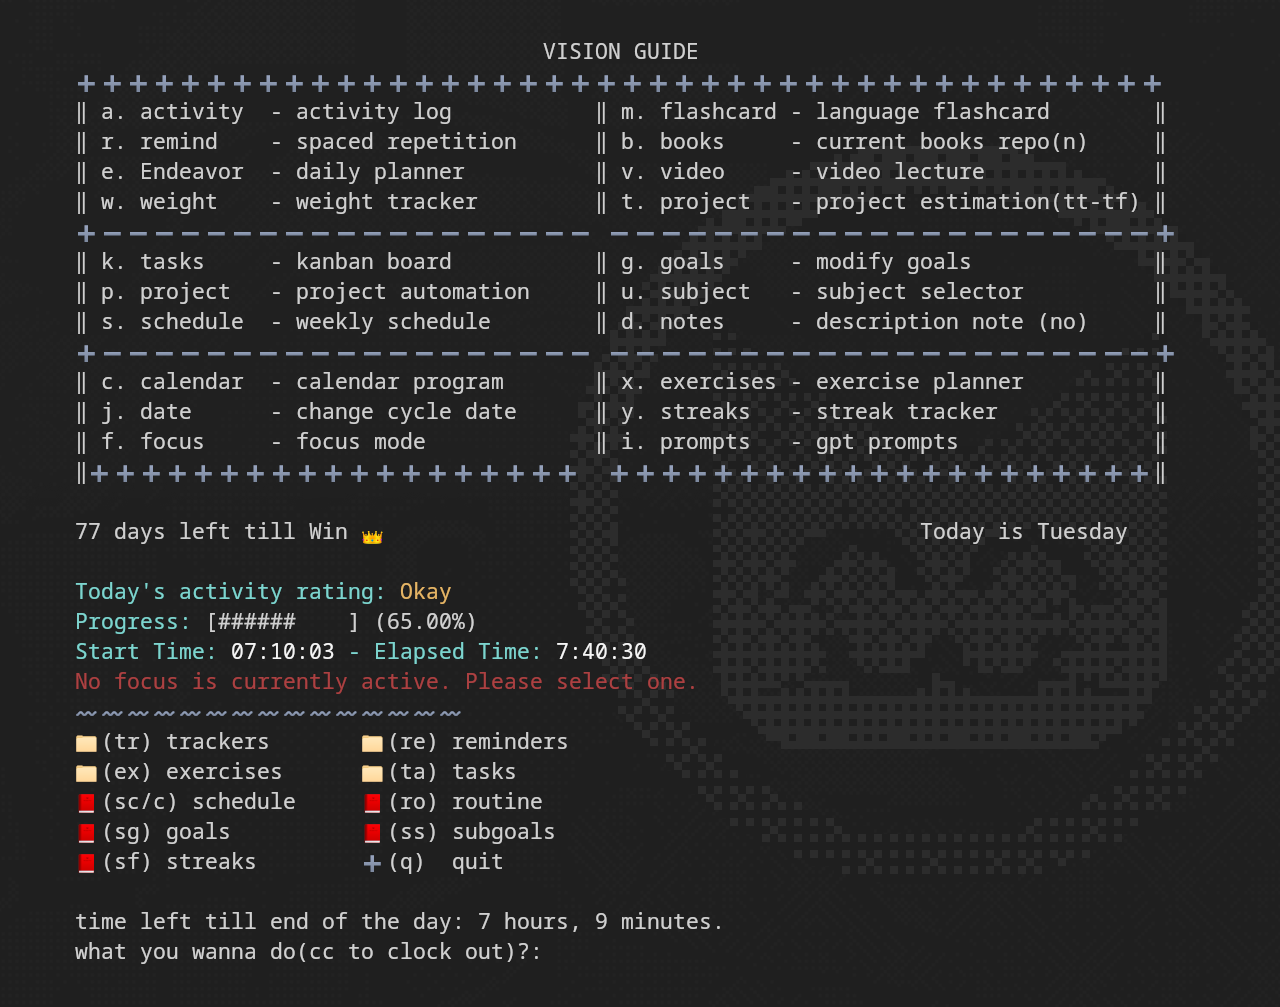
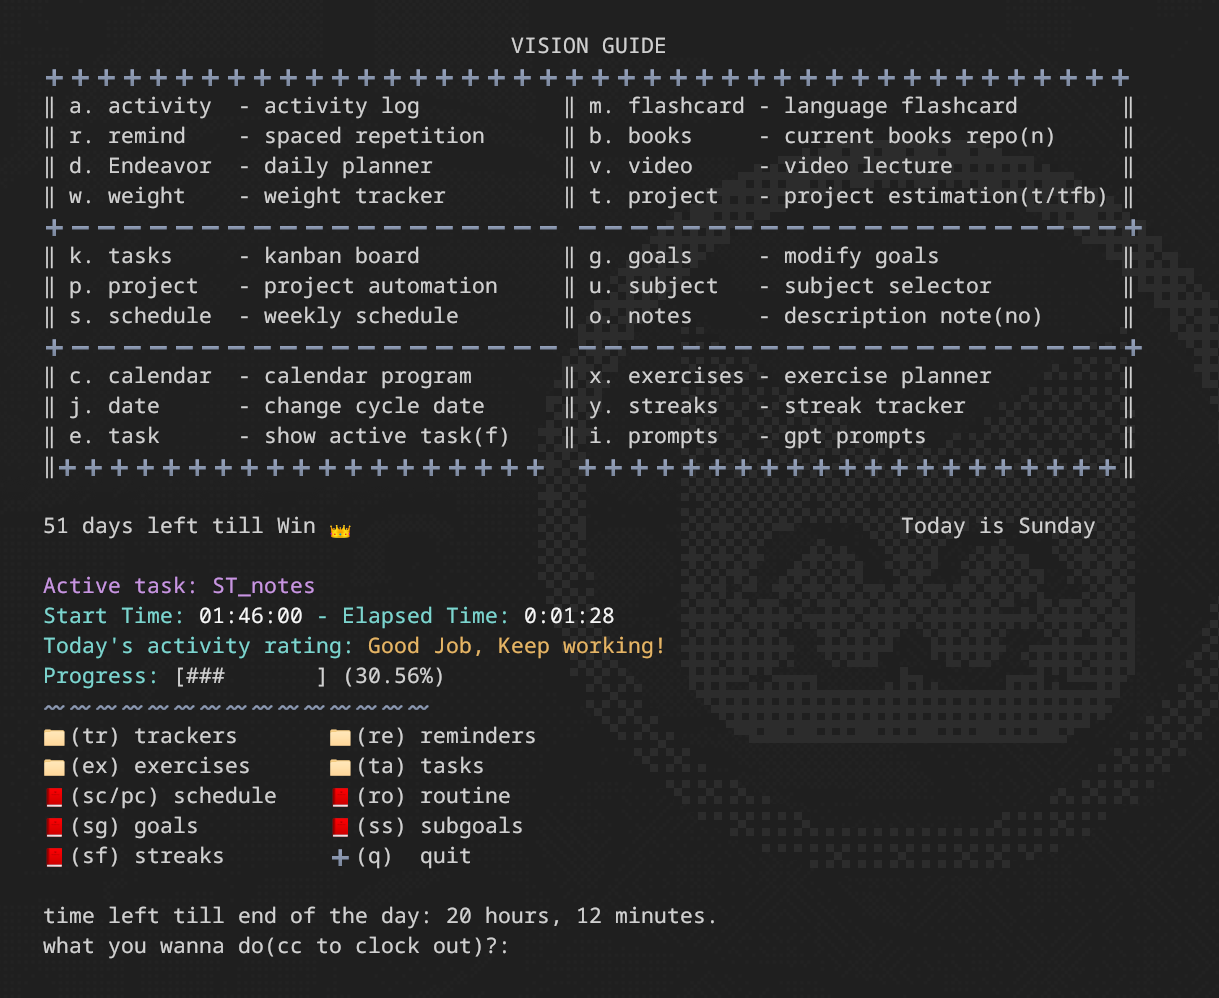
fixed activity labels, added schedule week calculator

Changed region(s): [[0.0312, 0.0311, 0.9352, 0.8697], [0.0312, 0.9008, 0.5923, 0.9629]]

diff --git a/modules/tasks.py b/modules/tasks.py
@@ -121,25 +121,49 @@ def remove_task():
 
 def move_task():
     clear_terminal()
+    update_task_indexes()
     show_tasks_Pindexes()
     task_index = int(input("\nEnter task index to move: "))
+
+    found_task = None
     for task in tasks:
         if task["index"] == task_index:
-            current_status = task['status']
-            if current_status == "Haven't studied":
-                task['status'] = "Studying right now"
-            elif current_status == "Studying right now":
-                task['status'] = "Study accomplished"
-            else:
-                print(f"{task['name']} already accomplished.")
-            save_data()
-            clear_terminal()
-            return
+            found_task = task
+            break
 
-    print(f"Subject with index {task_index} not found.")
-    input("Press any key to continue...")
+    if found_task:
+        print(f"Selected task: {found_task['name']} - Status: {found_task['status']}")
+        move_direction = input("Move it forward or back? (forward/back): ").lower()
+
+        if move_direction == "forward":
+            if found_task['status'] == "Haven't studied":
+                found_task['status'] = "Studying right now"
+                print(f"{found_task['name']} moved forward to 'Studying right now'.")
+            elif found_task['status'] == "Studying right now":
+                found_task['status'] = "Study accomplished"
+                print(f"{found_task['name']} moved forward to 'Study accomplished'.")
+            else:
+                print(f"{found_task['name']} already accomplished.")
+        elif move_direction == "back":
+            if found_task['status'] == "Studying right now":
+                found_task['status'] = "Haven't studied"
+                print(f"{found_task['name']} moved back to 'Haven't studied'.")
+            elif found_task['status'] == "Study accomplished":
+                found_task['status'] = "Studying right now"
+                print(f"{found_task['name']} moved back to 'Studying right now'.")
+            else:
+                print(f"{found_task['name']} hasn't been started yet.")
+        else:
+            print("Invalid choice. Please enter 'forward' or 'back'.")
+
+        save_data()
+    else:
+        print(f"task with index {task_index} not found.")
     clear_terminal()
     show_tasks()
+    input("\n\nPress any key to continue...")
+    clear_terminal()
+
 
 def show_tasks_Pindexes():
     update_task_indexes()

diff --git a/modules/subjects.py b/modules/subjects.py
@@ -123,23 +123,46 @@ def move_subject():
     update_subject_indexes()
     show_subjects_Pindexes()
     subject_index = int(input("\nEnter subject index to move: "))
+
+    found_subject = None
     for subject in subjects:
         if subject["index"] == subject_index:
-            current_status = subject['status']
-            if current_status == "Haven't studied":
-                subject['status'] = "Studying right now"
-            elif current_status == "Studying right now":
-                subject['status'] = "Study accomplished"
-            else:
-                print(f"{subject['name']} already accomplished.")
-            save_data()
-            clear_terminal()
-            return
+            found_subject = subject
+            break
 
-    print(f"Subject with index {subject_index} not found.")
+    if found_subject:
+        print(f"Selected subject: {found_subject['name']} - Status: {found_subject['status']}")
+        move_direction = input("Move it forward or back? (forward/back): ").lower()
+
+        if move_direction == "forward":
+            if found_subject['status'] == "Haven't studied":
+                found_subject['status'] = "Studying right now"
+                print(f"{found_subject['name']} moved forward to 'Studying right now'.")
+            elif found_subject['status'] == "Studying right now":
+                found_subject['status'] = "Study accomplished"
+                print(f"{found_subject['name']} moved forward to 'Study accomplished'.")
+            else:
+                print(f"{found_subject['name']} already accomplished.")
+        elif move_direction == "back":
+            if found_subject['status'] == "Studying right now":
+                found_subject['status'] = "Haven't studied"
+                print(f"{found_subject['name']} moved back to 'Haven't studied'.")
+            elif found_subject['status'] == "Study accomplished":
+                found_subject['status'] = "Studying right now"
+                print(f"{found_subject['name']} moved back to 'Studying right now'.")
+            else:
+                print(f"{found_subject['name']} hasn't been started yet.")
+        else:
+            print("Invalid choice. Please enter 'forward' or 'back'.")
+
+        save_data()
+    else:
+        print(f"Subject with index {subject_index} not found.")
+
     input("Press any key to continue...")
     clear_terminal()
     show_subjects()
+
 
 def update_subject():
     clear_terminal()

diff --git a/modules/activity.py b/modules/activity.py
@@ -12,9 +12,9 @@ init(autoreset=True)
 # Constants for rating colors
 COLORS = {
     'red: Terrible': Fore.RED,
-    'colors.YELLOW: Okay': Fore.YELLOW,
-    'colors.CYAN: Good': Fore.CYAN,
-    'pure colors.GREEN: perfect': Fore.GREEN,
+    'yellow: Okay': Fore.YELLOW,
+    'cyan: Good': Fore.CYAN,
+    'green: perfect': Fore.GREEN,
 }
 
 # Database file path
@@ -253,11 +253,11 @@ def calculate_and_save_activity_rating():
         elif completion_percentage <= 32:
             color_rating = 'red: Terrible'
         elif completion_percentage <= 65:
-            color_rating = 'colors.YELLOW: Okay'
+            color_rating = 'yellow: Okay'
         elif completion_percentage <= 99:
-            color_rating = 'colors.CYAN: Good'
+            color_rating = 'cyan: Good'
         else:
-            color_rating = 'pure colors.GREEN: perfect'
+            color_rating = 'green: perfect'
 
         # Load existing activity data or initialize an empty dictionary
         activity_data = {}
@@ -333,11 +333,11 @@ def check_and_update_yesterday_activity():
                 elif completion_percentage <= 32:
                     color_rating = 'red: Terrible'
                 elif completion_percentage <= 65:
-                    color_rating = 'colors.YELLOW: Okay'
+                    color_rating = 'yellow: Okay'
                 elif completion_percentage <= 99:
-                    color_rating = 'colors.CYAN: Good'
+                    color_rating = 'cyan: Good'
                 else:
-                    color_rating = 'pure colors.GREEN: perfect'
+                    color_rating = 'green: perfect'
             else:
                 color_rating = 'red: Terrible'
         except FileNotFoundError:
@@ -429,6 +429,7 @@ def main():
 
         if choice == 's':
             clear_terminal()
+            load_data()
             show_activity()
             input("\npress enter to continue...")
             clear_terminal()

diff --git a/modules/schedule.py b/modules/schedule.py
@@ -47,7 +47,7 @@ def edit_notes():
 
 
 def show_schedule_by_time(print_output):
-    schedule_lines = get_schedule_output().strip().split('\n')
+    schedule_lines = get_schedule_output(lastl=False).strip().split('\n')
     schedule_output = '\n'.join(schedule_lines[1:])
     current_time = datetime.now().strftime('%H:%M')
     current_time = datetime.strptime(current_time, '%H:%M')
@@ -70,7 +70,7 @@ def show_schedule_by_time(print_output):
             return False
 
 
-def get_schedule_output():
+def get_schedule_output(lastl):
     output = []
     free_activities_hours = {}
 
@@ -102,9 +102,10 @@ def get_schedule_output():
 
         elif print_schedule and not line:
             break
-
-    for day, total_hours in free_activities_hours.items():
-        output.append(f"{colors.WPURPLE}{day} - Total Free Hours: {total_hours:.2f} hours{colors.RESET}")
+    
+    if lastl == True:
+        for day, total_hours in free_activities_hours.items():
+            output.append(f"{colors.WPURPLE}{day} - Total Free Hours: {total_hours:.2f} hours{colors.RESET}")
 
     return '\n'.join(output)
 
@@ -154,8 +155,8 @@ def plot_schedule():
     plt.show()
 
  
-def schedleft():
-    schedule_lines = get_schedule_output().strip().split('\n')
+def schedleft(lastl=False):
+    schedule_lines = get_schedule_output(lastl=False).strip().split('\n')
     print("\n\n"+schedule_lines[0])
     schedule_output = '\n'.join(schedule_lines[1:])
     current_time = datetime.now().strftime('%H:%M')
@@ -463,7 +464,7 @@ def main():
         choice = input("\nEnter choice: ")
         if choice == "s":
             clear_terminal()
-            print("\n\n"+get_schedule_output())
+            print("\n\n"+get_schedule_output(lastl=True))
             input(f"\n{colors.space*2}{colors.YELLOW}Press any key to continue...{colors.RESET}")
             clear_terminal()
         elif choice == "n":

diff --git a/guide.py b/guide.py
@@ -99,7 +99,7 @@ def main():
             gpt.main()
         elif select == "sc":
             clear_terminal()
-            print(f"\n\n{schedule.get_schedule_output()}")
+            print(f"\n\n{schedule.get_schedule_output(lastl=False)}")
             input(f"\n{colors.space*3}{colors.YELLOW}press any key to continue...{colors.RESET}")
             clear_terminal()
         elif select == "scp":
